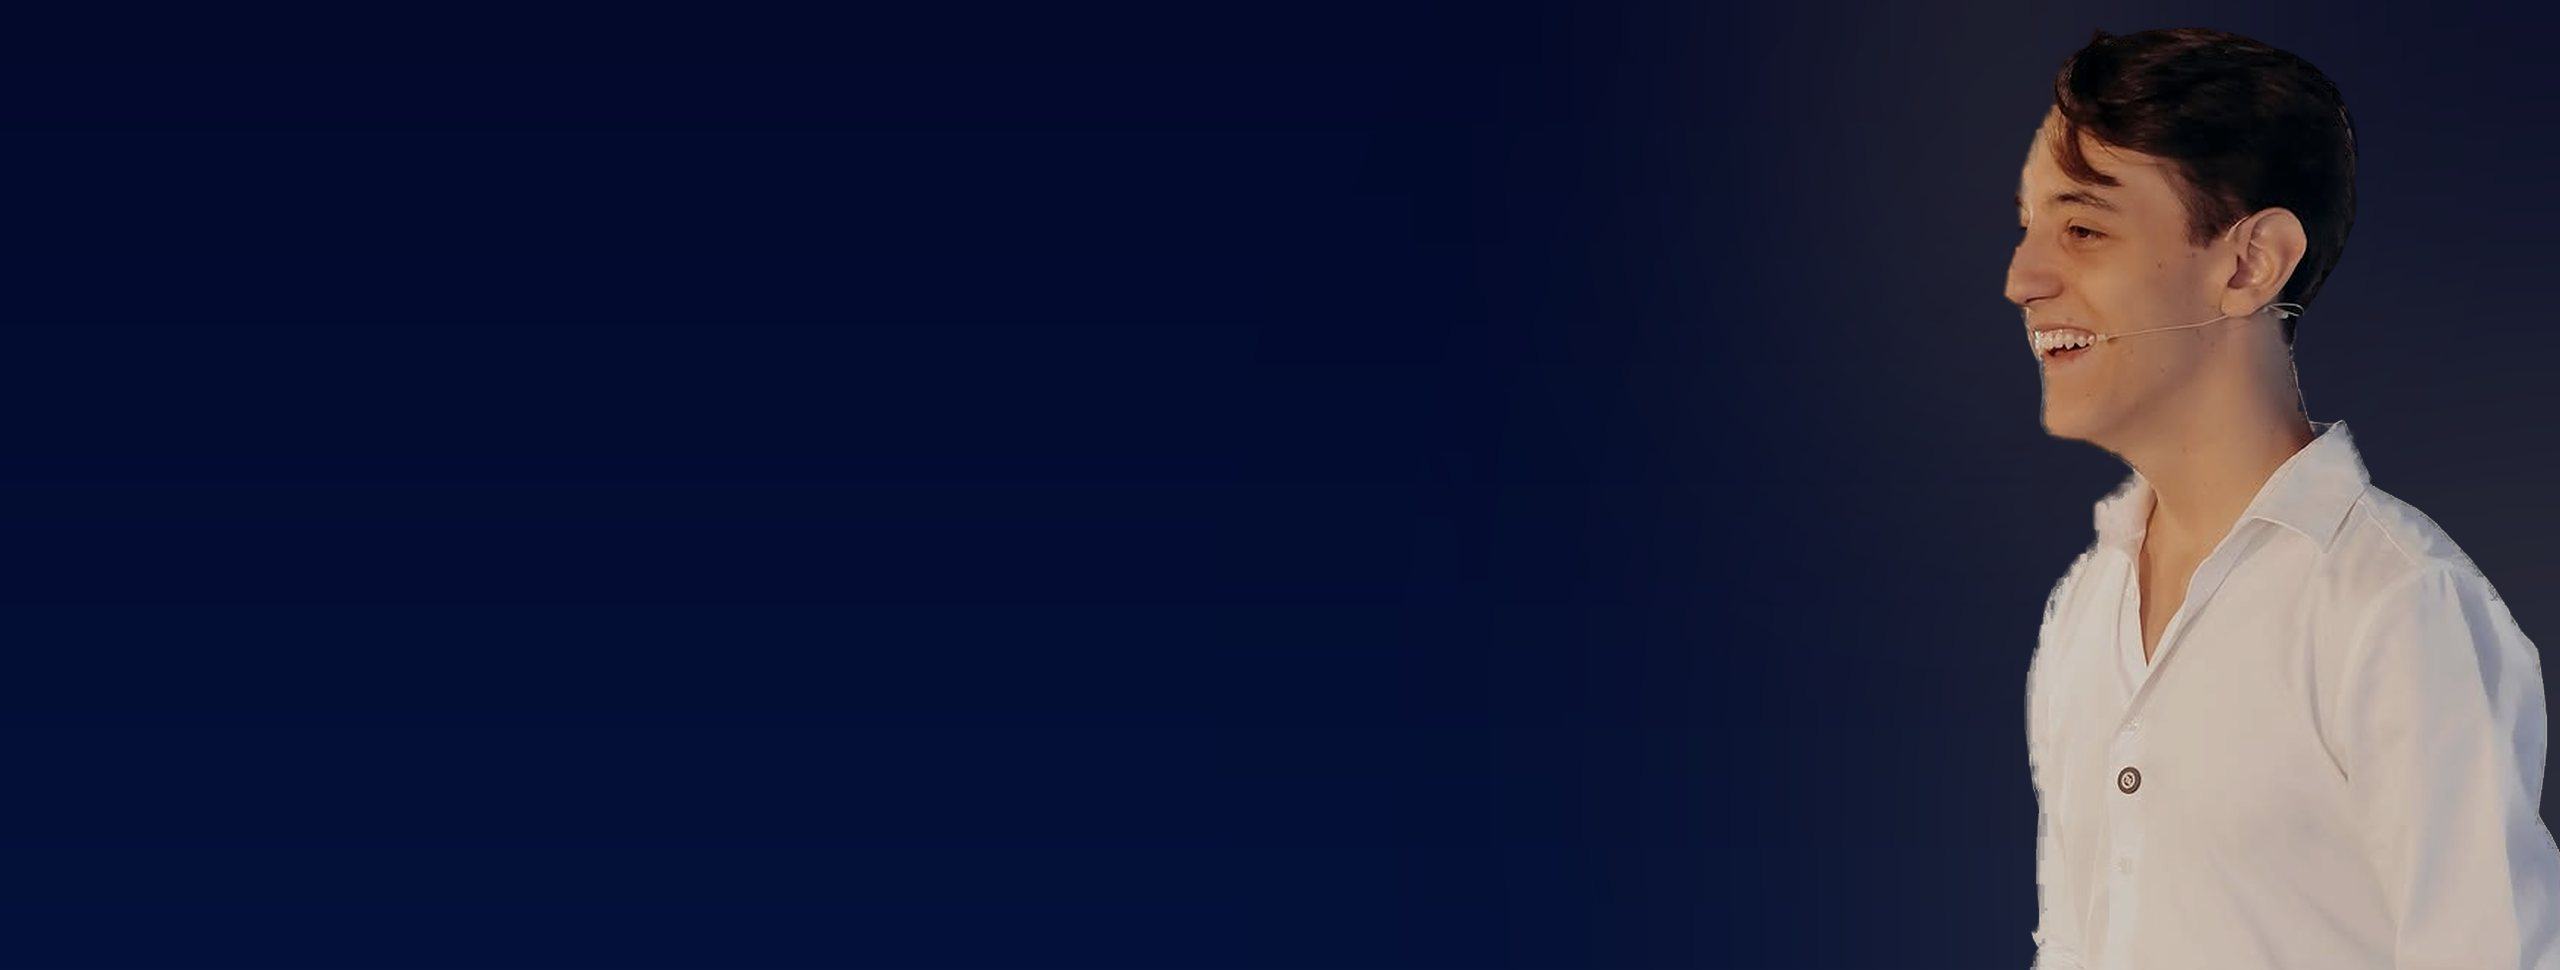
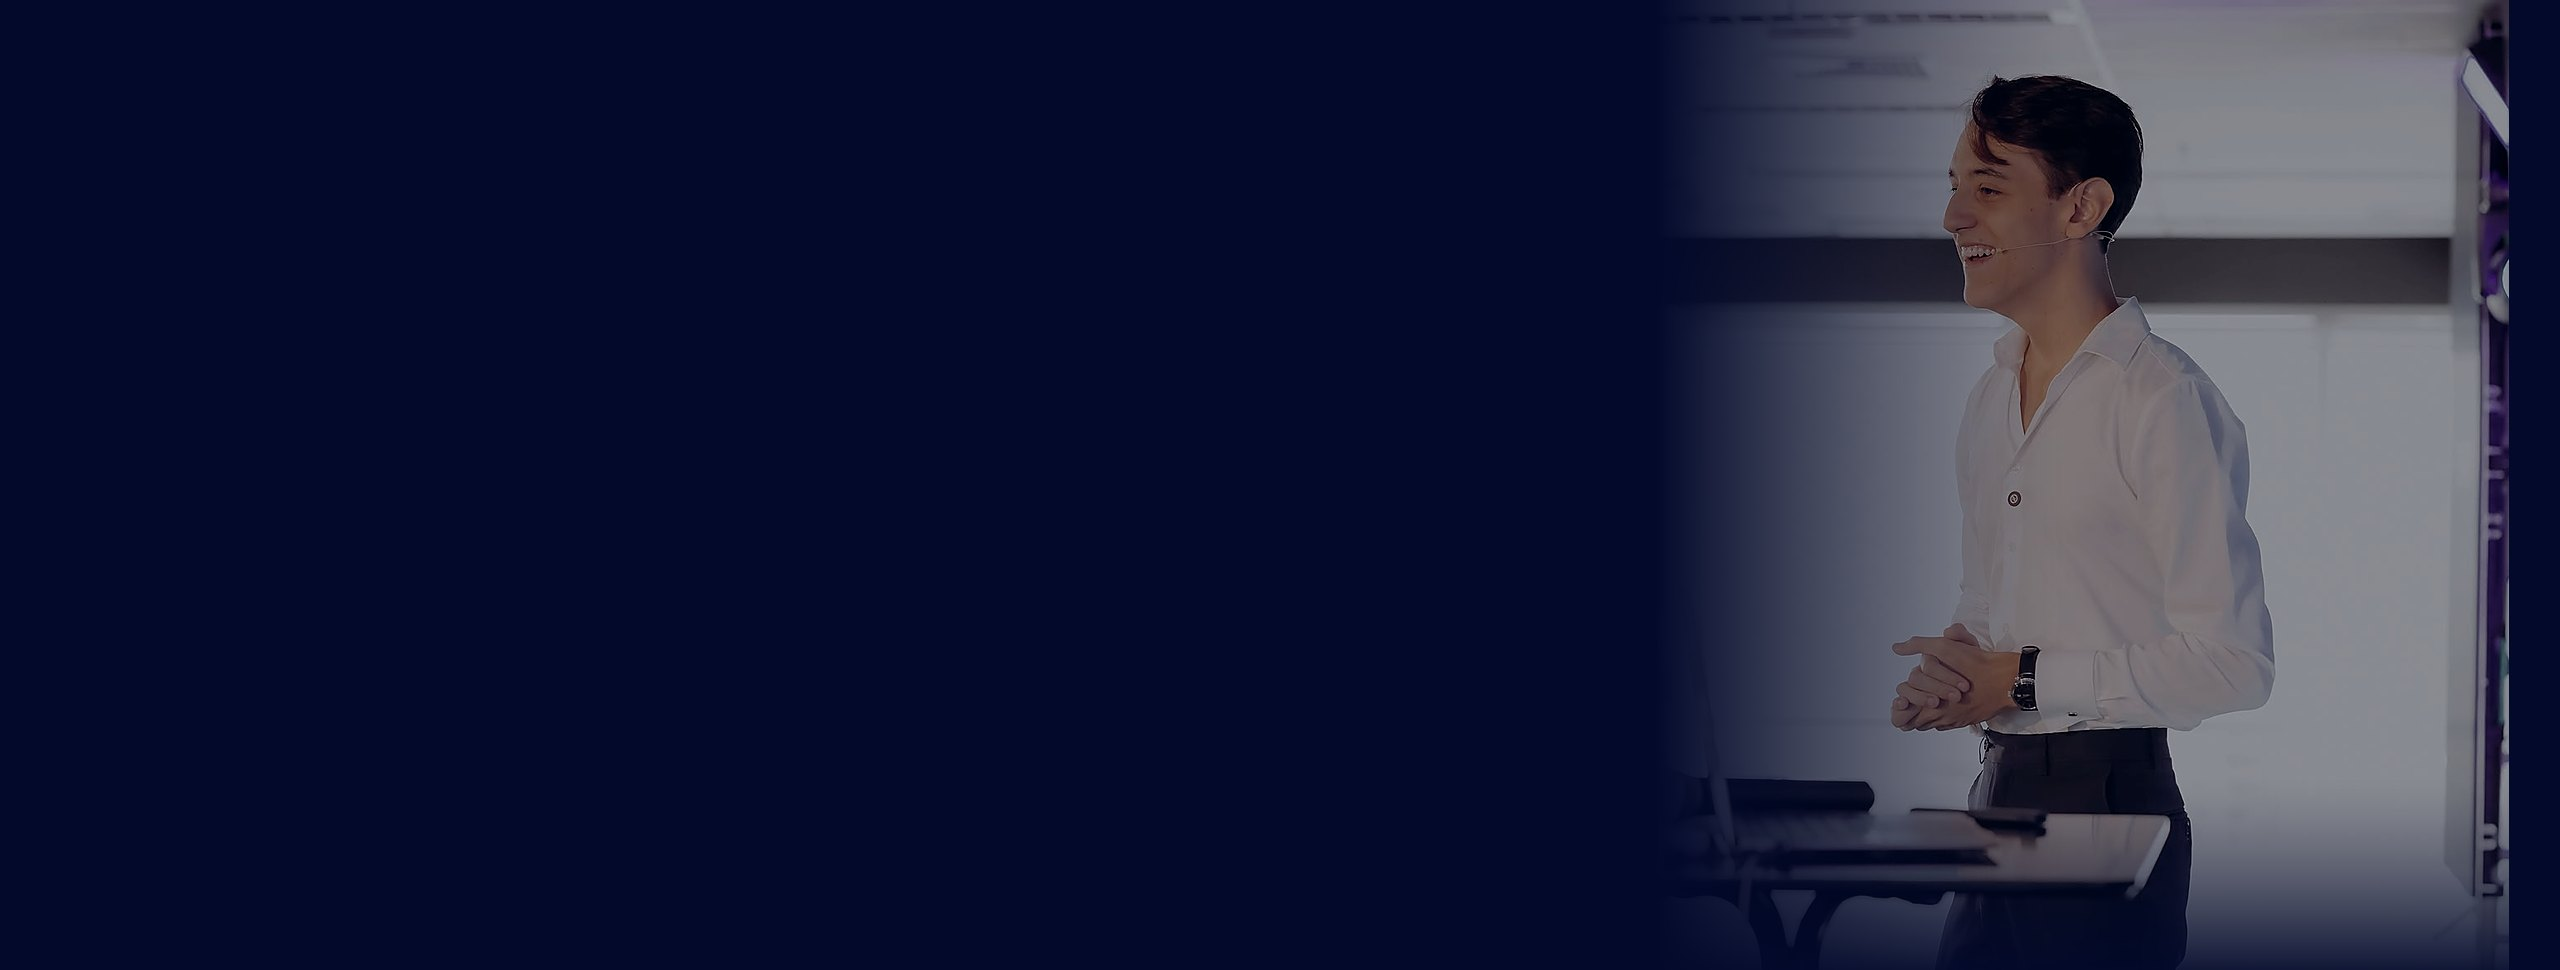
Advogados: foto original do evento com gradiente navy na hero e na bio (#8)
Fundos da /advogados refeitos: foto original do João no evento, sem recorte, à direita, com o navy entrando da esquerda por gradiente e a base dissolvendo na seção seguinte, como na hero do Garcez. Mobile com a foto no topo dissolvendo para navy. Mesmo esquema na seção da bio. Script compose-fundos.py junto dos assets para regerar com a foto completa.

Claude-Session: https://claude.ai/code/session_016UtGgHvg5SeJY5P18SjakX

Changed region(s): [[0.6562, 0.0, 1.0, 1.0]]

diff --git a/advogados/assets/compose-fundos.py b/advogados/assets/compose-fundos.py
@@ -1,0 +1,62 @@
+# Foto original (cenário do evento) à direita + navy entrando da esquerda por gradiente, como na hero do Garcez.
+from PIL import Image, ImageFilter, ImageDraw, ImageEnhance, ImageChops
+NAVY=(2,9,43)
+SRC='/home/user/xpn-lp/formatos/assets/joao.jpg'   # 1170x1170 — trocar pela foto completa quando chegar
+
+def tone(im):
+    # leve tratamento: menos saturação, um pouco mais escura, tinta navy suave por cima (mantém o cenário visível)
+    im=ImageEnhance.Color(im).enhance(0.85); im=ImageEnhance.Brightness(im).enhance(0.82); im=ImageEnhance.Contrast(im).enhance(1.08)
+    tint=Image.new('RGB',im.size,NAVY); return Image.blend(im,tint,0.28)
+
+def hfade(im, x0, x1, strength=1.0):
+    """navy opaco até x0, transparente a partir de x1 (fade horizontal)"""
+    w,h=im.size; g=Image.new('RGBA',(w,h),NAVY+(0,)); px=g.load()
+    for x in range(w):
+        t=0 if x>=x1 else 1 if x<=x0 else 1-(x-x0)/(x1-x0)
+        a=int(255*strength*(t**1.35))
+        for y in range(h): px[x,y]=NAVY+(a,)
+    return Image.alpha_composite(im.convert('RGBA'),g)
+
+def vfade(im, y0, y1, strength=1.0):
+    w,h=im.size; g=Image.new('RGBA',(w,h),NAVY+(0,)); px=g.load()
+    for y in range(h):
+        t=0 if y<=y0 else 1 if y>=y1 else (y-y0)/(y1-y0)
+        a=int(255*strength*(t**1.4))
+        for x in range(w): px[x,y]=NAVY+(a,)
+    return Image.alpha_composite(im.convert('RGBA'),g)
+
+src=Image.open(SRC).convert('RGB')
+A='/home/user/xpn-lp/advogados/assets/'
+
+# HERO DESKTOP 2560x970: foto ocupa a metade direita (escala pela altura), navy à esquerda com fade
+W,H=2560,970
+canvas=Image.new('RGB',(W,H),NAVY)
+s=H/src.height; ph=Image.open(SRC).convert('RGB'); ph=ph.resize((int(src.width*s),H),Image.LANCZOS); ph=tone(ph)
+ph=ph.filter(ImageFilter.UnsharpMask(radius=1.2,percent=80,threshold=2))
+x=W-ph.width-int(W*0.02)            # encostada à direita com pequena margem
+canvas.paste(ph,(x,0))
+out=hfade(canvas, x+int(ph.width*0.12), x+int(ph.width*0.55))   # navy opaco sobre o começo da foto, sem emenda visível
+out=vfade(out, int(H*0.80), H, 0.9)                        # base dissolve na seção seguinte
+out.convert('RGB').save(A+'hero.jpg',quality=86,optimize=True,progressive=True)
+
+# HERO MOBILE 800x1660: foto no topo (largura total), dissolvendo para navy embaixo
+W,H=800,1660
+canvas=Image.new('RGB',(W,H),NAVY)
+ph=src.resize((W,W),Image.LANCZOS); ph=tone(ph); canvas.paste(ph,(0,0))
+out=vfade(canvas, int(W*0.55), int(W*1.02), 1.0)
+out.convert('RGB').save(A+'mobile-hero.jpg',quality=84,optimize=True,progressive=True)
+
+# QUEM-SOU 1920x800: mesmo esquema, foto à direita
+W,H=1920,800
+canvas=Image.new('RGB',(W,H),NAVY)
+s=H/src.height; ph=src.resize((int(src.width*s),H),Image.LANCZOS); ph=tone(ph)
+x=W-ph.width-int(W*0.02); canvas.paste(ph,(x,0))
+out=hfade(canvas, x+int(ph.width*0.12), x+int(ph.width*0.58)); out=vfade(out,int(H*0.82),H,0.9)
+out.convert('RGB').save(A+'quem-sou.jpg',quality=86,optimize=True,progressive=True)
+
+# QUEM-SOU MOBILE 800x720
+W,H=800,720
+ph=src.resize((W,W),Image.LANCZOS); ph=tone(ph); ph=ph.crop((0,0,W,H))
+out=vfade(ph, int(H*0.6), H, 1.0)
+out.convert('RGB').save(A+'mobile-quem-sou.jpg',quality=84,optimize=True,progressive=True)
+print('ok')
